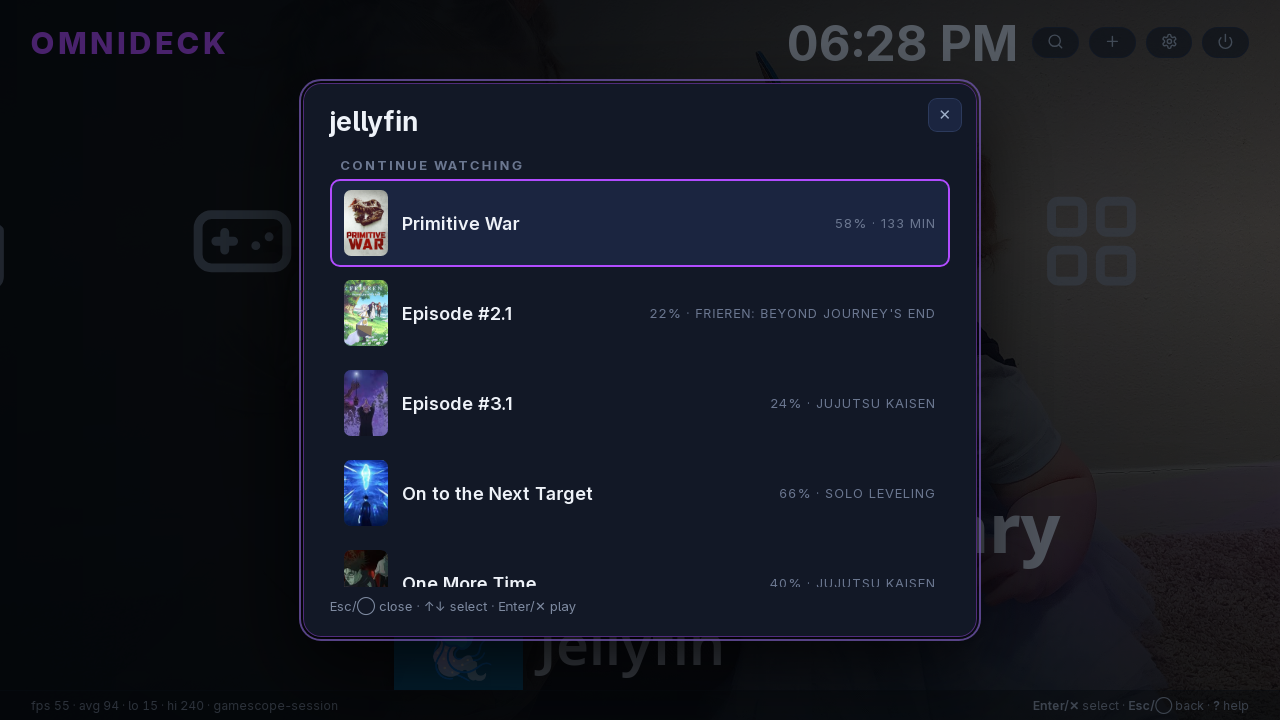
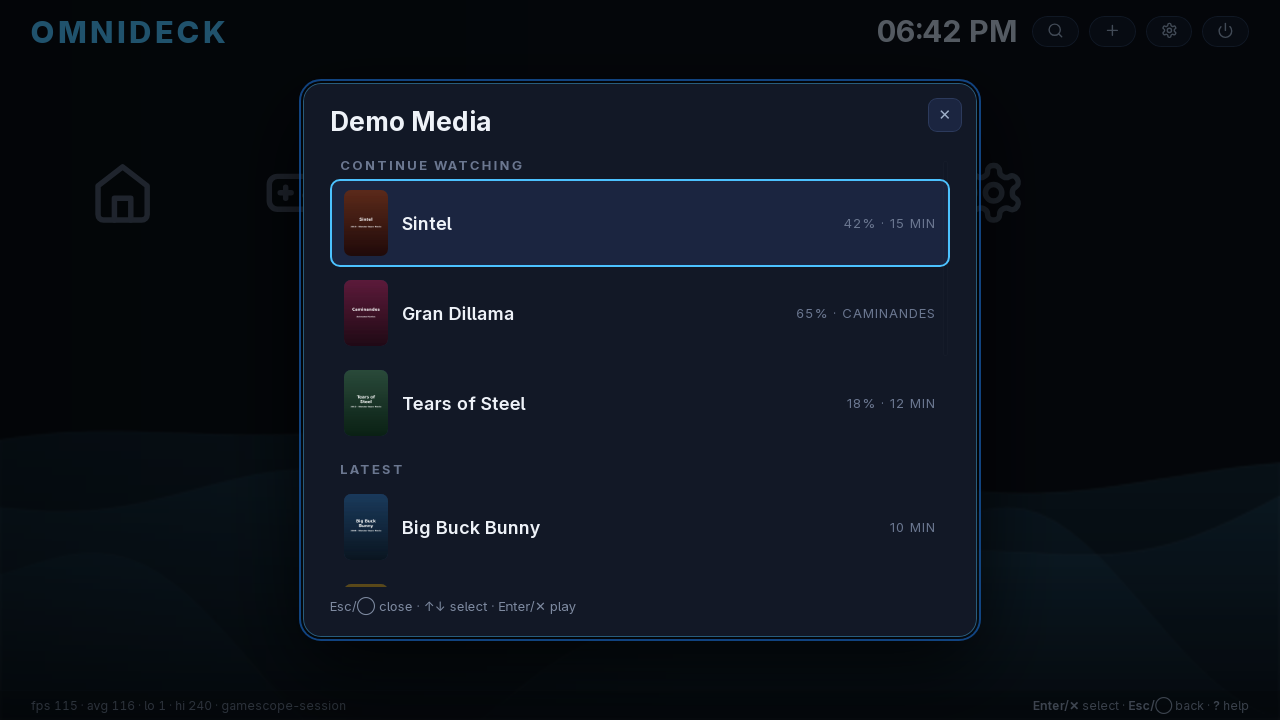
Release prep round 2: demo-library screenshots, run-modes doc, couch checklist
- docs/img regenerated with ZERO personal data: a scratch XDG_CONFIG_HOME
  demo config (curated streaming tiles, default background — no personal
  photos, no real game library) against a throwaway fake-Jellyfin serving
  Blender open movies (Big Buck Bunny, Sintel, …) with generated posters.
  Bonus: the media shot's footer shows 115 fps (GPU compositing).
- README 'Three ways to run it': desktop window, fullscreen Big-Picture
  via nested gamescope (no logout needed), dedicated SDDM session.
- packaging/RELEASE-TEST-0.2.0.md: the literal couch checklist — every
  human-verifiable feature, both controllers, the desync soak test, the
  settings walk, suspend. The harness covers everything else.

diff --git a/packaging/RELEASE-TEST-0.2.0.md b/packaging/RELEASE-TEST-0.2.0.md
@@ -1,0 +1,71 @@
+# 0.2.0 release test — the couch checklist
+
+One real session on the 165 Hz host, DualSense **and** DualShock 4 within reach.
+Everything here is the stuff the automated harness *can't* see. Check boxes as you go;
+anything that fails or feels wrong, jot one line next to it — that's the 0.2.x list.
+
+Before you start: `sudo ./packaging/install-session.sh` (launcher changed since your
+last install), then log out → pick **OmniDeck** at SDDM.
+
+## 1. Boot & display
+- [ ] UI appears (no black screen) with the **wave wallpaper** flowing
+- [ ] fps meter reads **well above 60** (GPU compositing — expect ~150+ at idle)
+- [ ] After the session: `grep "session display mode" ~/.local/state/omnideck/omnideck.$(date +%F).log` says `2560x1440 @ 165 Hz`
+- [ ] Navigation feels *snappy* — the original complaint this release set out to kill
+
+## 2. Input — do all of this on BOTH controllers
+- [ ] Left stick: up moves **up**, down moves **down** (the DS4 inversion fix)
+- [ ] D-pad: all four directions, hold-to-repeat scrolls
+- [ ] ✕ launches · ◯ backs out · □ favorites a tile · △ opens Add apps
+- [ ] Select opens search · Start goes Home · R1 shows item info
+- [ ] Keyboard twins: arrows, Enter, Esc, F, A, /, H, I, P, `?` (help overlay)
+
+## 3. Search
+- [ ] `/` or Select opens it; type on the real keyboard — **OSK dims** while typing
+- [ ] D-pad drives the OSK (dims back on), stick moves the **result list**
+- [ ] Launch a result; nonsense query shows "no library matches" + web-search row
+
+## 4. Games (Steam)
+- [ ] Launch a game → fullscreen, **Now Playing card** appears
+- [ ] Quit the game → focus returns to OmniDeck on its own, card clears
+- [ ] Favorite a game (□) → it shows on Home; recents row populates
+
+## 5. App switcher & chords (launch a PWA like YouTube first)
+- [ ] **Guide press** → back to OmniDeck, app *keeps running* (audio continues)
+- [ ] **Guide press** again → app returns, exactly where it was
+- [ ] **Guide hold (~1 s)** → app closes *while you're still holding*
+- [ ] Same three with `Ctrl+Alt+Home` / `Ctrl+Alt+End` on the keyboard
+- [ ] Launch TWO apps, then close → **both** die, launcher front (close-all fix)
+
+## 6. Media Library — the headline
+- [ ] Media Library tile is first in Movies & TV; opens your real server
+- [ ] Continue Watching shows your items **with correct resume %**
+- [ ] Drill: TV Shows → a series → season → episode; ◯ walks back up
+- [ ] Posters fill in as you scroll
+- [ ] **Play a movie** → mpv fullscreen, hardware decode
+      (`Shift+I` in mpv → hwdec active, not "no")
+- [ ] **F4** during playback → motion interpolation kicks in (165 fps smooth)
+- [ ] **F8** (ultra) → watch 15+ min: **audio stays in sync** (the desync fix — capped
+      at 82.5 fps now). If on LDAC headphones and it drifts: pause/unpause resyncs =
+      Bluetooth, not us
+- [ ] **F1** → back to passthrough; compare feel
+- [ ] Guide-hold during playback closes mpv, launcher front, Now Playing clears
+
+## 7. Settings — walk every section
+- [ ] Section headers (Appearance/Background/…) — navigation skips them cleanly
+- [ ] **Live wallpaper: Off** → waves gone instantly; back **On** → return
+- [ ] **Ambient music: on** → the pad fades in; volume row appears; adjust it;
+      verdict on the *mood* (retunable) — then off → fades out
+- [ ] Accent color change → rail/waves recolor live
+- [ ] UI scale nudge up/down → layout stays sane
+
+## 8. Power & stability
+- [ ] **Suspend** → resume → session alive, controller reconnects, clock correct
+- [ ] Restart/Shut down ask for confirm; cancel works
+- [ ] Leave it idle 10 min → no crash, waves still moving, fps steady
+- [ ] **Exit OmniDeck** → clean return to SDDM (note if gamescope segfault-noise
+      appears in the journal — known cosmetic, upstream)
+
+## Verdict
+- [ ] Everything above passes → say "tag it" and 0.2.0 ships (RELEASING.md §2–4)
+- [ ] Anything failed → bring the line notes; fixes become 0.2.0 blockers or 0.2.1

diff --git a/README.md b/README.md
@@ -86,6 +86,16 @@ profiles when the hardware can handle it.
   GAMESCOPE_FLAGS="-W 2560 -H 1440 -r 165 -O DP-3"   # connector names: ls /sys/class/drm
   ```
 
+## Three ways to run it
+
+1. **Desktop window** — just run `omnideck`. A normal app window; everything works
+   except the session-only pieces (app switcher, global chords).
+2. **Fullscreen "Big Picture" from your desktop** — `gamescope -f -- omnideck`.
+   The complete 10-foot experience (switcher, Guide button, chords, fullscreen apps)
+   inside your existing desktop session, no logout. Add `-W/-H/-r` flags to taste.
+3. **Dedicated session** — `sudo ./packaging/install-session.sh`, then pick
+   **OmniDeck** at your display manager's session list. The console mode.
+
 ## Build & run (dev)
 
 ```bash
